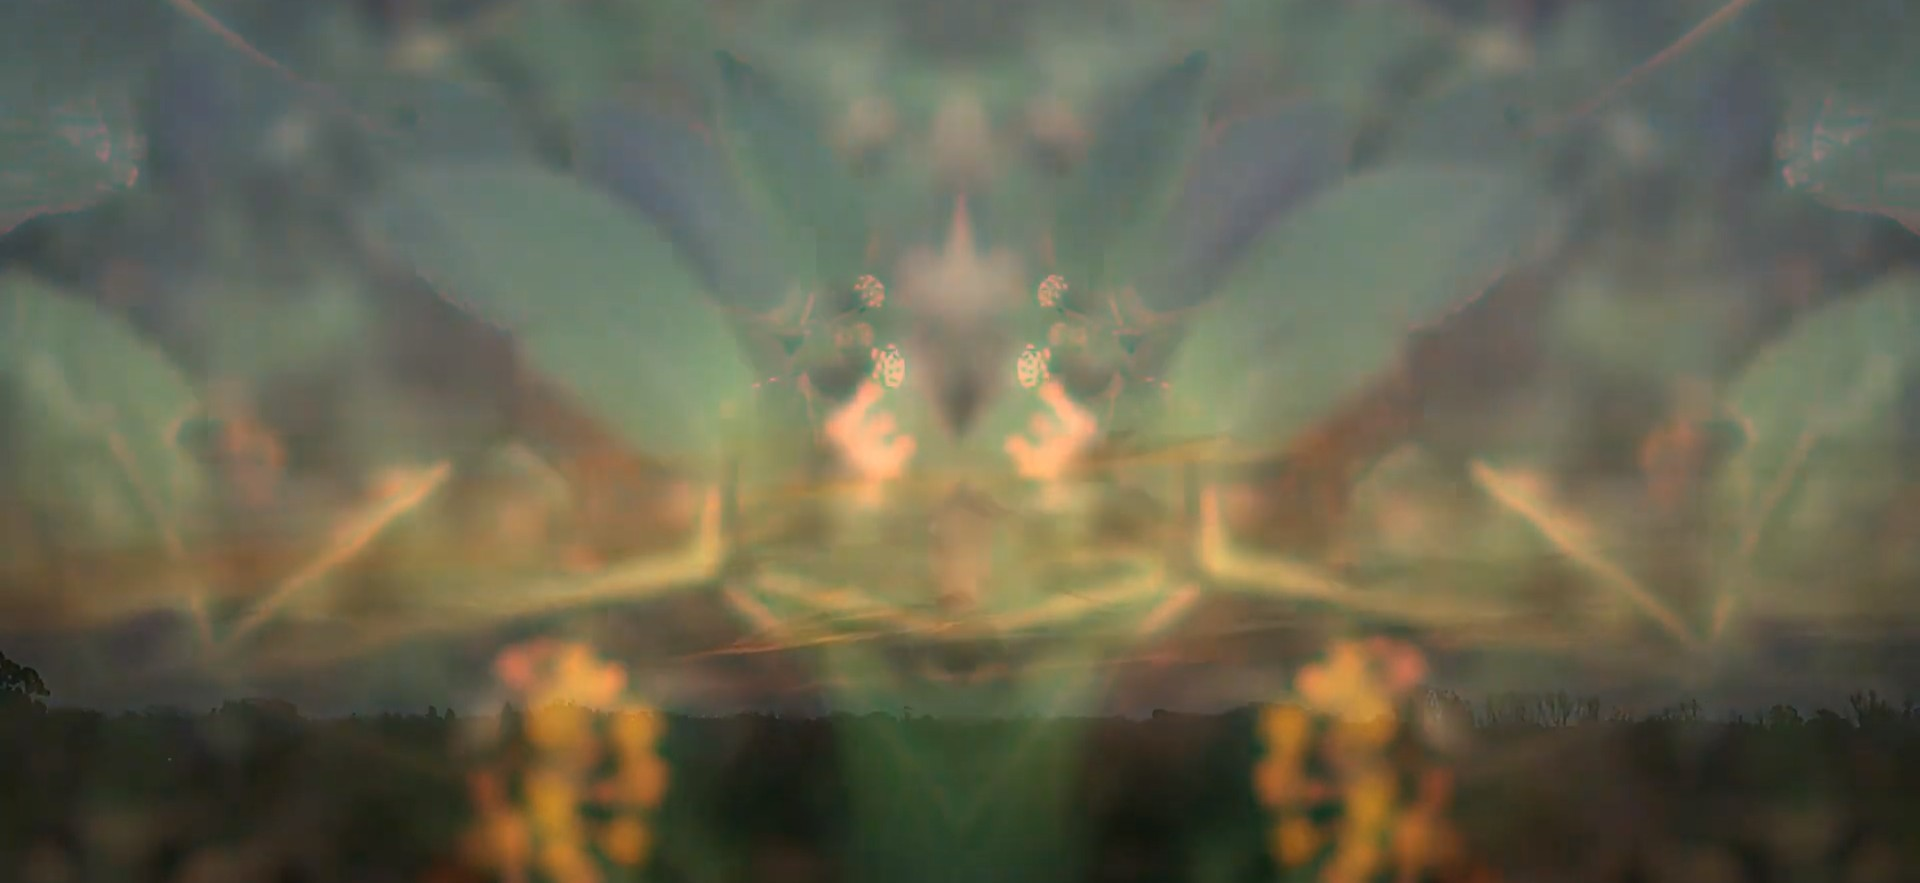
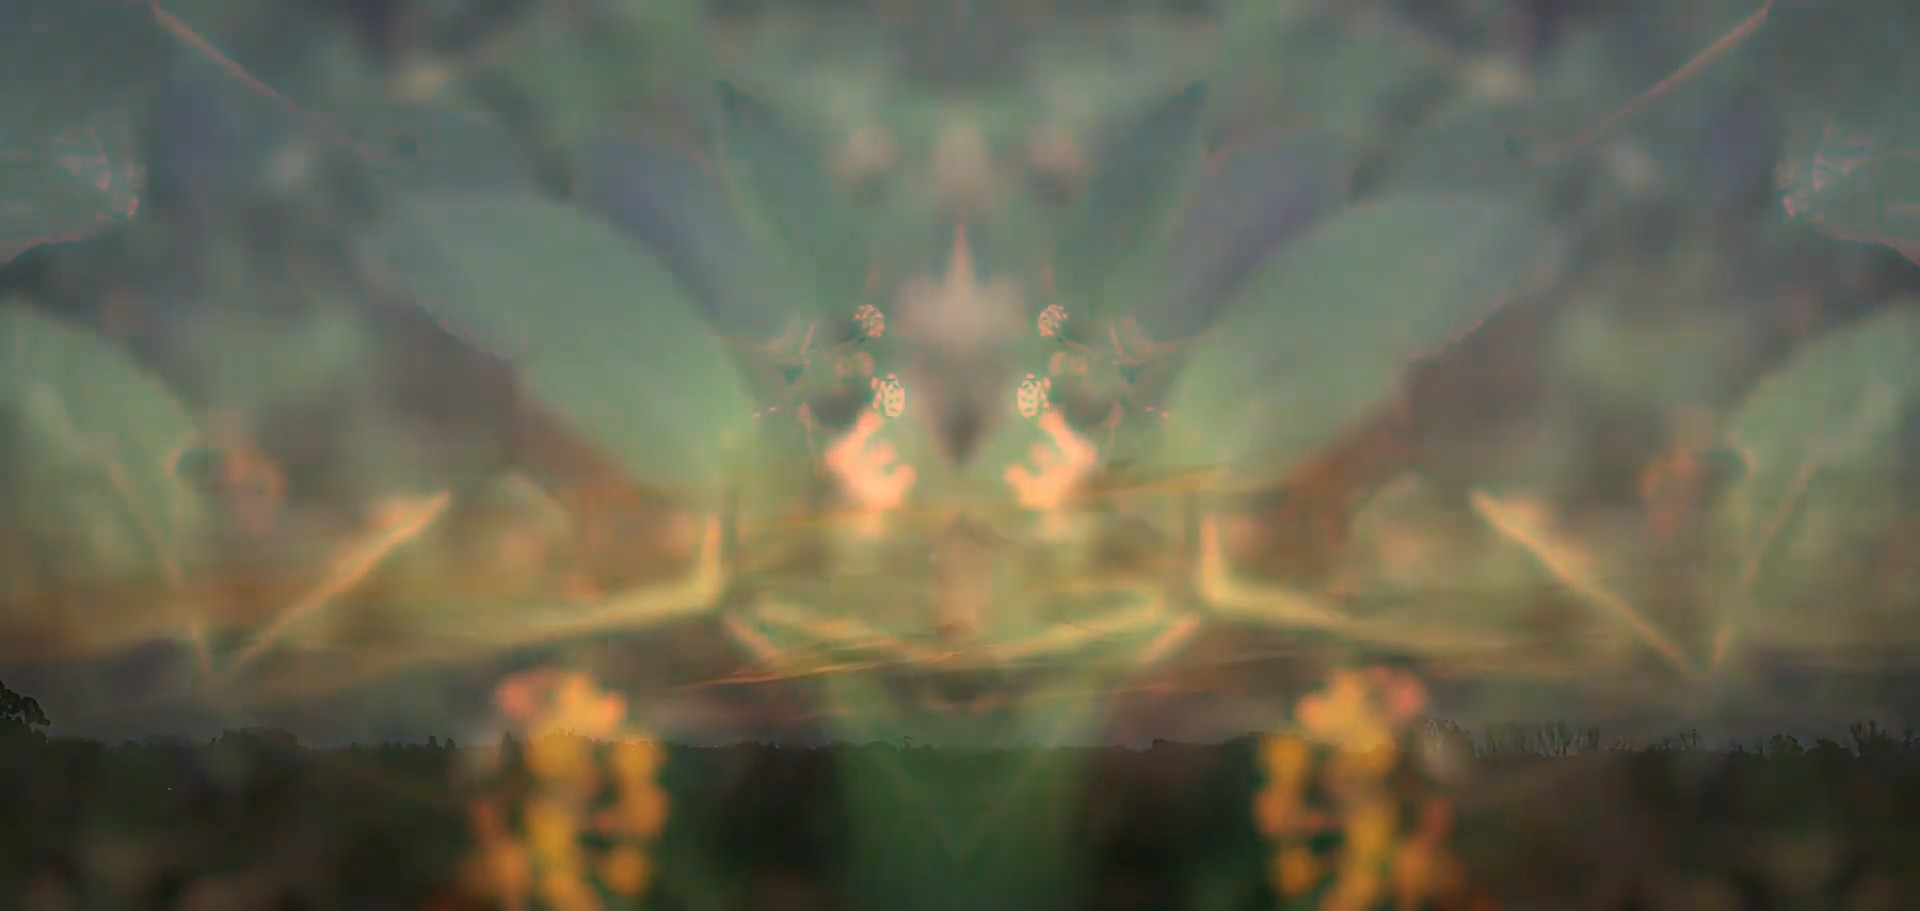
pàg de videos

diff --git a/videos/index.html b/videos/index.html
@@ -3,11 +3,13 @@ layout: page
 title: "VIDEOS"
 description: ""
 active: gallery
-header-img: "img/eco.png"
+header-img: "img/eco.jpg"
 ---
-<a href="https://youtu.be/krSZHIJ15BI?si=jHjtVZBSRdyWq-ve">
-<img src="ecolibertad.png">
-</a>
+<a href="https://youtu.be/krSZHIJ15BI?si=jHjtVZBSRdyWq-ve"><img src="ecolibertad.jpg"></a>
+<a href="https://youtu.be/dtKVqJxkCvc?si=l17zVaWng8Klpa73"><img src="dote.jpg"></a>
+<a href="https://youtu.be/Hp8ujpvJihY?si=C0ZDQAsUoPxW8F4W"><img src="otra vez.jpg"></a>
+<a href="https://youtu.be/Wjhq_4ZGM5o?si=LAuy3ww1V7mubxK9"><img src="El Estallido.jpg"></a>
+
 
 <html class="no-js" lang="en">
 <head>
